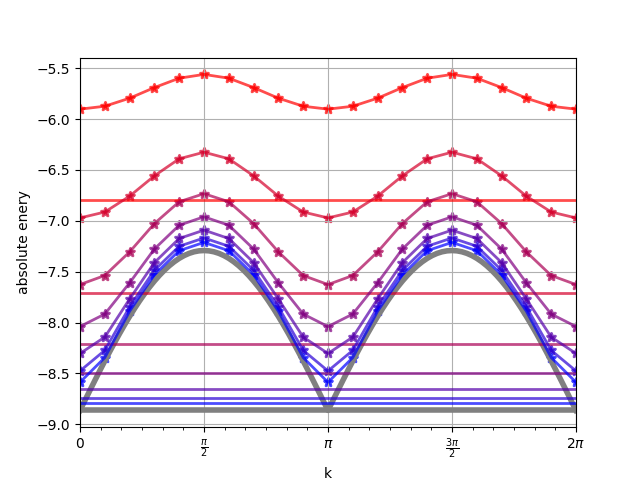
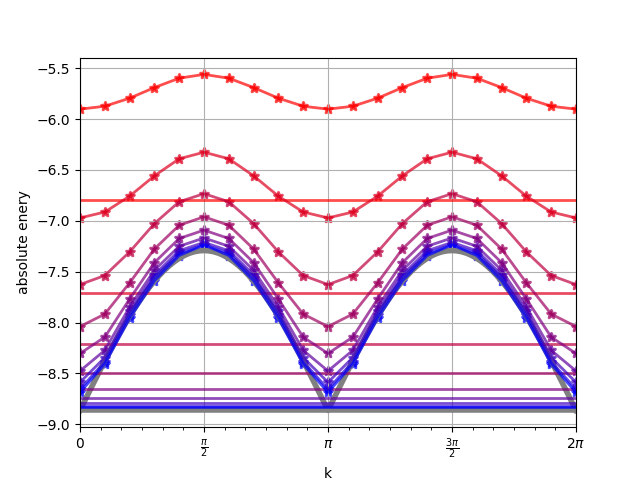
readme

Changed region(s): [[0.125, 0.4688, 0.9062, 0.875]]

diff --git a/README.md b/README.md
@@ -82,7 +82,7 @@ To keep the equivalence explicit, here term "monostar model" is used instead of 
 
 ## Results from bftp solver
 
-The plot below presents the system Hamiltonian eigenenergies for `af` monostar system of 20 nodes calculated with `bfpt` at different levels of approximation. The considered system states are: the system ground state (horizontal lines on the plot) and system states from the first excited band (the curves on the plot). Result obtained in calculations with the Hilbert space subspaces of orders from 2 to 7 are represented by lines with colors going from red to blue. In addition exact results for infinite chain was included for reference; the reference energies are represented by gray lines. (The ground state energy was scaled so to preserve the quantum correlation energy per node.)
+The plot below presents the system Hamiltonian eigenenergies for `af` monostar system of 20 nodes calculated with `bfpt` at different levels of approximation. The considered system states are: the system ground state (horizontal lines on the plot) and system states from the first excited band (the curves on the plot). Result obtained in calculations with the Hilbert space subspaces of orders from 1 to 9 (inclusive) are represented by lines with colors going from red to blue. In addition exact results for infinite chain was included for reference; the reference energies are represented by gray lines. (The ground state energy was scaled so to preserve the quantum correlation energy per node.)
 
 !["Monostar model -- absolute energies"](img/model_monostar_20sites_absolute_energy.png "Monostar model -- absolute energies")
 
